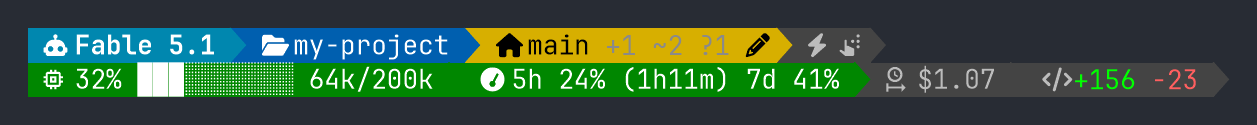
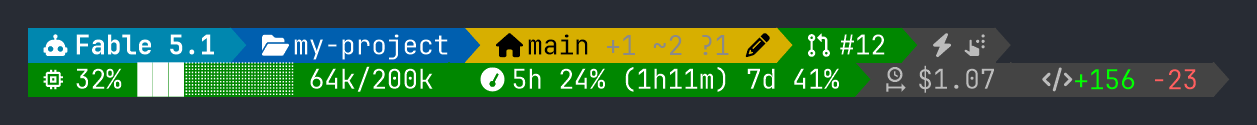
Docs: screenshots with the pr segment, roadmap and test section after #12, #18, #20 and #34

Changed region(s): [[0.6205, 0.216, 0.8067, 0.504]]

diff --git a/README.md b/README.md
@@ -8,9 +8,9 @@ A PowerShell status line for [Claude Code](https://code.claude.com) on Windows. 
 
 ![Status line rendered in Windows Terminal with JetBrainsMono Nerd Font](docs/statusline.png)
 
-Left to right: model, context meter, cost, lines changed, rate limits, mode badges, folder, and the
-branch with its change counts. Each segment starts with a Nerd Font icon, which GitHub cannot show
-in text, so the rest of this file names the icons instead.
+Left to right: model, context meter, cost, lines changed, rate limits, mode badges, the pull
+request, folder, and the branch with its change counts. Each segment starts with a Nerd Font icon,
+which GitHub cannot show in text, so the rest of this file names the icons instead.
 
 ![Two-line powerline layout](docs/statusline-two-line.png)
 
@@ -35,7 +35,7 @@ how close you are to a rate limit, and which modes are on.
 - Folder and git branch, with a home glyph on `main` and a pencil when the tree is dirty. Branch state comes from `git status` in the current directory, cached for a few seconds so most renders never start git.
 - Counts beside the branch name: `↑N` `↓N` commits ahead of or behind the upstream, `+N` staged, `~N` changed, `?N` untracked, and a red triangle with a count when files are in conflict. See [Branch counts](#branch-counts).
 - One line or two, plain separators or powerline blocks, and any segment switched off, all from `statusline.json`.
-- Fits the terminal width. A line that is too long first loses detail from the limits, context and branch segments, then loses whole segments from the right, so lines stop wrapping in normal use.
+- Fits the terminal width. A line that is too long first loses detail from the limits, context, branch and folder segments, then loses whole segments from the right, so lines stop wrapping in normal use.
 - If a field is missing from the payload, the script drops that segment. If the payload will not parse, it still prints the model glyph.
 - Icons come from Unicode code points rather than pasted characters, so the file's own encoding cannot corrupt them.
 - No modules to install. PowerShell 7 and a Nerd Font are the whole dependency list.
@@ -268,31 +268,34 @@ arrows. A `git` object with an empty branch name shows nothing.
 
 ## Test without Claude Code
 
-`test.ps1` runs four groups. Unit checks call the script's helper functions directly (width
-measurement, config parsing, rendering, width fitting, the context meter, `git status` parsing, the
-payload counts, the branch segment). The git group runs the branch fallback against temporary
-repositories: clean, dirty, unborn, detached, one commit ahead, one behind, a mixed tree with a
-staged, a modified and an untracked file, a fake `git` that fails and one that hangs. The install
-group runs `install.ps1` with `USERPROFILE` and `-SettingsPath` pointed into a temp folder: a fresh
-settings file, an existing one with unrelated keys, `-RefreshInterval`, a refused value, and
-`-Uninstall`. It checks afterwards that the real `~/.claude` files were not touched. The render
-matrix pipes every payload in `samples/` through the script for each layout and style at each
-width:
+`test.ps1` runs five groups. Unit checks call the script's helper functions directly (width
+measurement, config parsing, the segment table, rendering, width fitting, the context meter, the
+limits, `git status` parsing, the payload counts, the branch and pr segments, the state file, the
+git cache). The git group runs the branch fallback against temporary repositories: clean, dirty,
+unborn, detached, one commit ahead, one behind, a mixed tree with a staged, a modified and an
+untracked file, a fake `git` that fails and one that hangs, then the cache end to end: a second
+render with a failing `git` on `PATH`, a fetch from a bare remote, a push, a worktree. The state
+group writes and reads session files in a temp folder. The install group runs `install.ps1` with
+`USERPROFILE` and `-SettingsPath` pointed into a temp folder: a fresh settings file, an existing one
+with unrelated keys, `-RefreshInterval`, a refused value, and `-Uninstall`. It checks afterwards
+that the real `~/.claude` files were not touched. The render matrix pipes every payload in
+`samples/` through the script for each of seven configs (both layouts and styles, model only, a
+reversed `order`, swapped `rows`) at each width:
 
 ```powershell
-.\test.ps1                                # full run, about a minute
+.\test.ps1                                # full run, about three minutes
 .\test.ps1 -Columns 80                    # one width instead of 120, 60, 20 and unset
-.\test.ps1 -Config .\statusline.json      # one config instead of the four combinations
+.\test.ps1 -Config .\statusline.json      # one config instead of the seven
 .\test.ps1 -Raw                           # show ANSI escapes as <ESC>
 ```
 
 Every render must exit 0 with nothing on stderr, print the number of lines its layout allows, and fit
-the terminal width. At a set width the branch segment must be whole, shortened, or gone, never half
-shed. At the unset width the matrix also checks content: each segment the sample and config enable
-must appear on its row with its glyph and value, disabled segments must not, and the separators must
-match the style. Those content checks only run when `-Columns` includes `0`, which the default does.
-The script exits non-zero if any check fails. Each render takes about 250 ms, nearly all of it
-`pwsh` start-up.
+the terminal width. At a set width a segment with a short form (limits, context, branch, folder)
+must be whole, shortened, or gone, never half shed. At the unset width the matrix also checks
+content: each segment the sample and config enable must appear on its row, in the configured order,
+with its glyph and value, disabled segments must not, and the separators must match the style. Those
+content checks only run when `-Columns` includes `0`, which the default does. The script exits
+non-zero if any check fails. Each render takes about 400 ms, nearly all of it `pwsh` start-up.
 
 The tests never touch your own repositories. They point `GIT_CEILING_DIRECTORIES` at the temp
 folder and pass an empty global git config, so the results do not depend on the machine.
@@ -388,13 +391,18 @@ Done so far:
 - [x] Ahead and behind counts on the branch
 - [x] Staged, changed, untracked and conflict counts on the branch
 - [x] `1M` marker and past-200k warning on the model segment, wider colour bands for a 1M window
+- [x] Spend limit beside the rate limits
+- [x] `owner/name` in the folder segment
+- [x] Installer switch for the refresh interval
+- [x] Per-session state file, so a later render can see what changed
 - [x] Pull-request segment with a clickable link
 - [x] Segment order, rows, colour cut-offs and glyphs as `statusline.json` keys
+- [x] Cached `git status` with a configurable timeout
 
-[Issues #2 to #28](https://github.com/ookla-ariel-ride/claude-code-statusline-ps/issues) hold what comes next,
-each with its own plan. In rough order: small additions to existing segments (installer flags),
-then new segments (cache warmth, session clock), presets and
-per-project config, and finally an ASCII style that needs no Nerd Font and a light palette.
+[Issues #2 to #43](https://github.com/ookla-ariel-ride/claude-code-statusline-ps/issues) hold what comes next,
+each with its own plan. In rough order: new segments (cache warmth, cost per turn, pace, session
+clock, worktree name, links on the folder and branch), presets and per-project config, and finally
+an ASCII style that needs no Nerd Font and a light palette.
 
 ## License
 

diff --git a/docs/projectbrief.md b/docs/projectbrief.md
@@ -20,7 +20,6 @@ clobbering other keys, and renders glyphs correctly regardless of file encoding.
 - Zero dependencies beyond PowerShell 7 and a Nerd Font.
 - Degrade gracefully: omit any segment whose data is missing from the payload, and never print nothing.
 - One-command install and uninstall that preserves the rest of `~/.claude/settings.json`.
-- Be easy to customise by editing constants at the top of one file.
 - Fit the terminal width rather than wrap.
 - Be configurable from one small JSON file without editing the script.
 
@@ -133,7 +132,7 @@ clobbering other keys, and renders glyphs correctly regardless of file encoding.
 
 ## Success criteria
 
-- `.\test.ps1` passes: the unit checks, every payload in `samples/` across five configs and four widths (120, 60, 20 and unset) with content checks at the unset width, the git cases, and the install cases.
+- `.\test.ps1` passes: the unit checks, every payload in `samples/` across seven configs and four widths (120, 60, 20 and unset) with content checks at the unset width, the git cases with the probe cache, the state file cases, and the install cases.
 - `.\install.ps1` on a fresh machine produces a working status line in Claude Code after one session restart.
 - `.\install.ps1 -Uninstall` returns `settings.json` to its prior state minus the `statusLine` key.
 - `.\install.ps1` leaves an existing `~/.claude/statusline.json` untouched.
@@ -143,26 +142,28 @@ clobbering other keys, and renders glyphs correctly regardless of file encoding.
 Two-line layout, powerline style, config file, width fitting and the git fallback are implemented.
 The branch segment shows ahead and behind counts (#16) and staged, changed, untracked and conflict
 counts (#17), all from the one `git status` call, and that call is cached per repository with its
-timeout and lifetime in the config (#18). The pull-request segment (#12) links `#N` to the PR with
-OSC 8. Segment order, the two rows, the colour thresholds and the glyphs are `statusline.json` keys
-over the segment registry (#20). A light palette is still a constant in the script.
+timeout and lifetime in the config (#18). The model segment marks a 1M window (#9), the limits
+segment shows the spend limit (#7), and the folder segment shows `owner/name` (#10). The
+pull-request segment (#12) links `#N` to the PR with OSC 8. Segment order, the two rows, the colour
+thresholds and the glyphs are `statusline.json` keys over the segment registry (#20). The installer
+writes `hideVimModeIndicator` and, on request, `refreshInterval` (#26). A state file per session
+(#4) is written but nothing on the line reads it yet. A light palette is still a constant in the
+script.
 
 ## Future work
 
-Issues #2 to #28 hold the backlog, each with a plan and success criteria. The intended order:
+Issues #2 to #43 hold the backlog, each with a plan and success criteria. The enablers are done:
+the segment registry and config keys (#20), the state file (#4), the link helper (#12) and the git
+cache (#18). The intended order for the rest:
 
-1. Existing segments only: installer flags for the refresh interval and the built-in vim
-   indicator (#26). The 1M-context marker (#9) is done.
-2. A segment registry with `order`, `rows`, `thresholds` and `icons` keys in `statusline.json` (#20).
-   Done; every later segment builds on it.
-3. Enablers: a per-session state file for deltas between renders (#4). The pull-request badge with
-   the OSC 8 link helper (#12) is done.
-4. New segments: cache warmth and hit ratio, owner/repo, worktree, links, agent and session badges,
-   spend limit, cost per turn, pace, session clock (#2, #3, #5 to #8, #10, #11, #13, #14).
-5. Config: presets, a quiet block, an alarm colour, per-project config (#19, #21 to #23). The git
-   cache and timeout (#18) are done.
-6. Style and terminal: an ASCII style, a light palette, a right-aligned group with a clock, taskbar
+1. New segments: cache warmth and hit ratio, worktree name, links on the folder and branch, agent
+   and session badges, cost per turn, pace, session clock (#2, #3, #5, #6, #8, #11, #13, #14). #5
+   and #6 read the state file; #13 reuses `Format-Link`.
+2. Config: presets, a quiet block, an alarm colour, per-project config (#19, #21 to #23).
+3. Style and terminal: an ASCII style, a light palette, a right-aligned group with a clock, taskbar
    progress, a subagent status line (#15, #24, #25, #27, #28).
+4. Small fixes from review: the zero-segment fallback line should respect the model toggle and the
+   configured order (#42), and an optional diagnostics log for the silent catch blocks (#43).
 
 ## License
 
